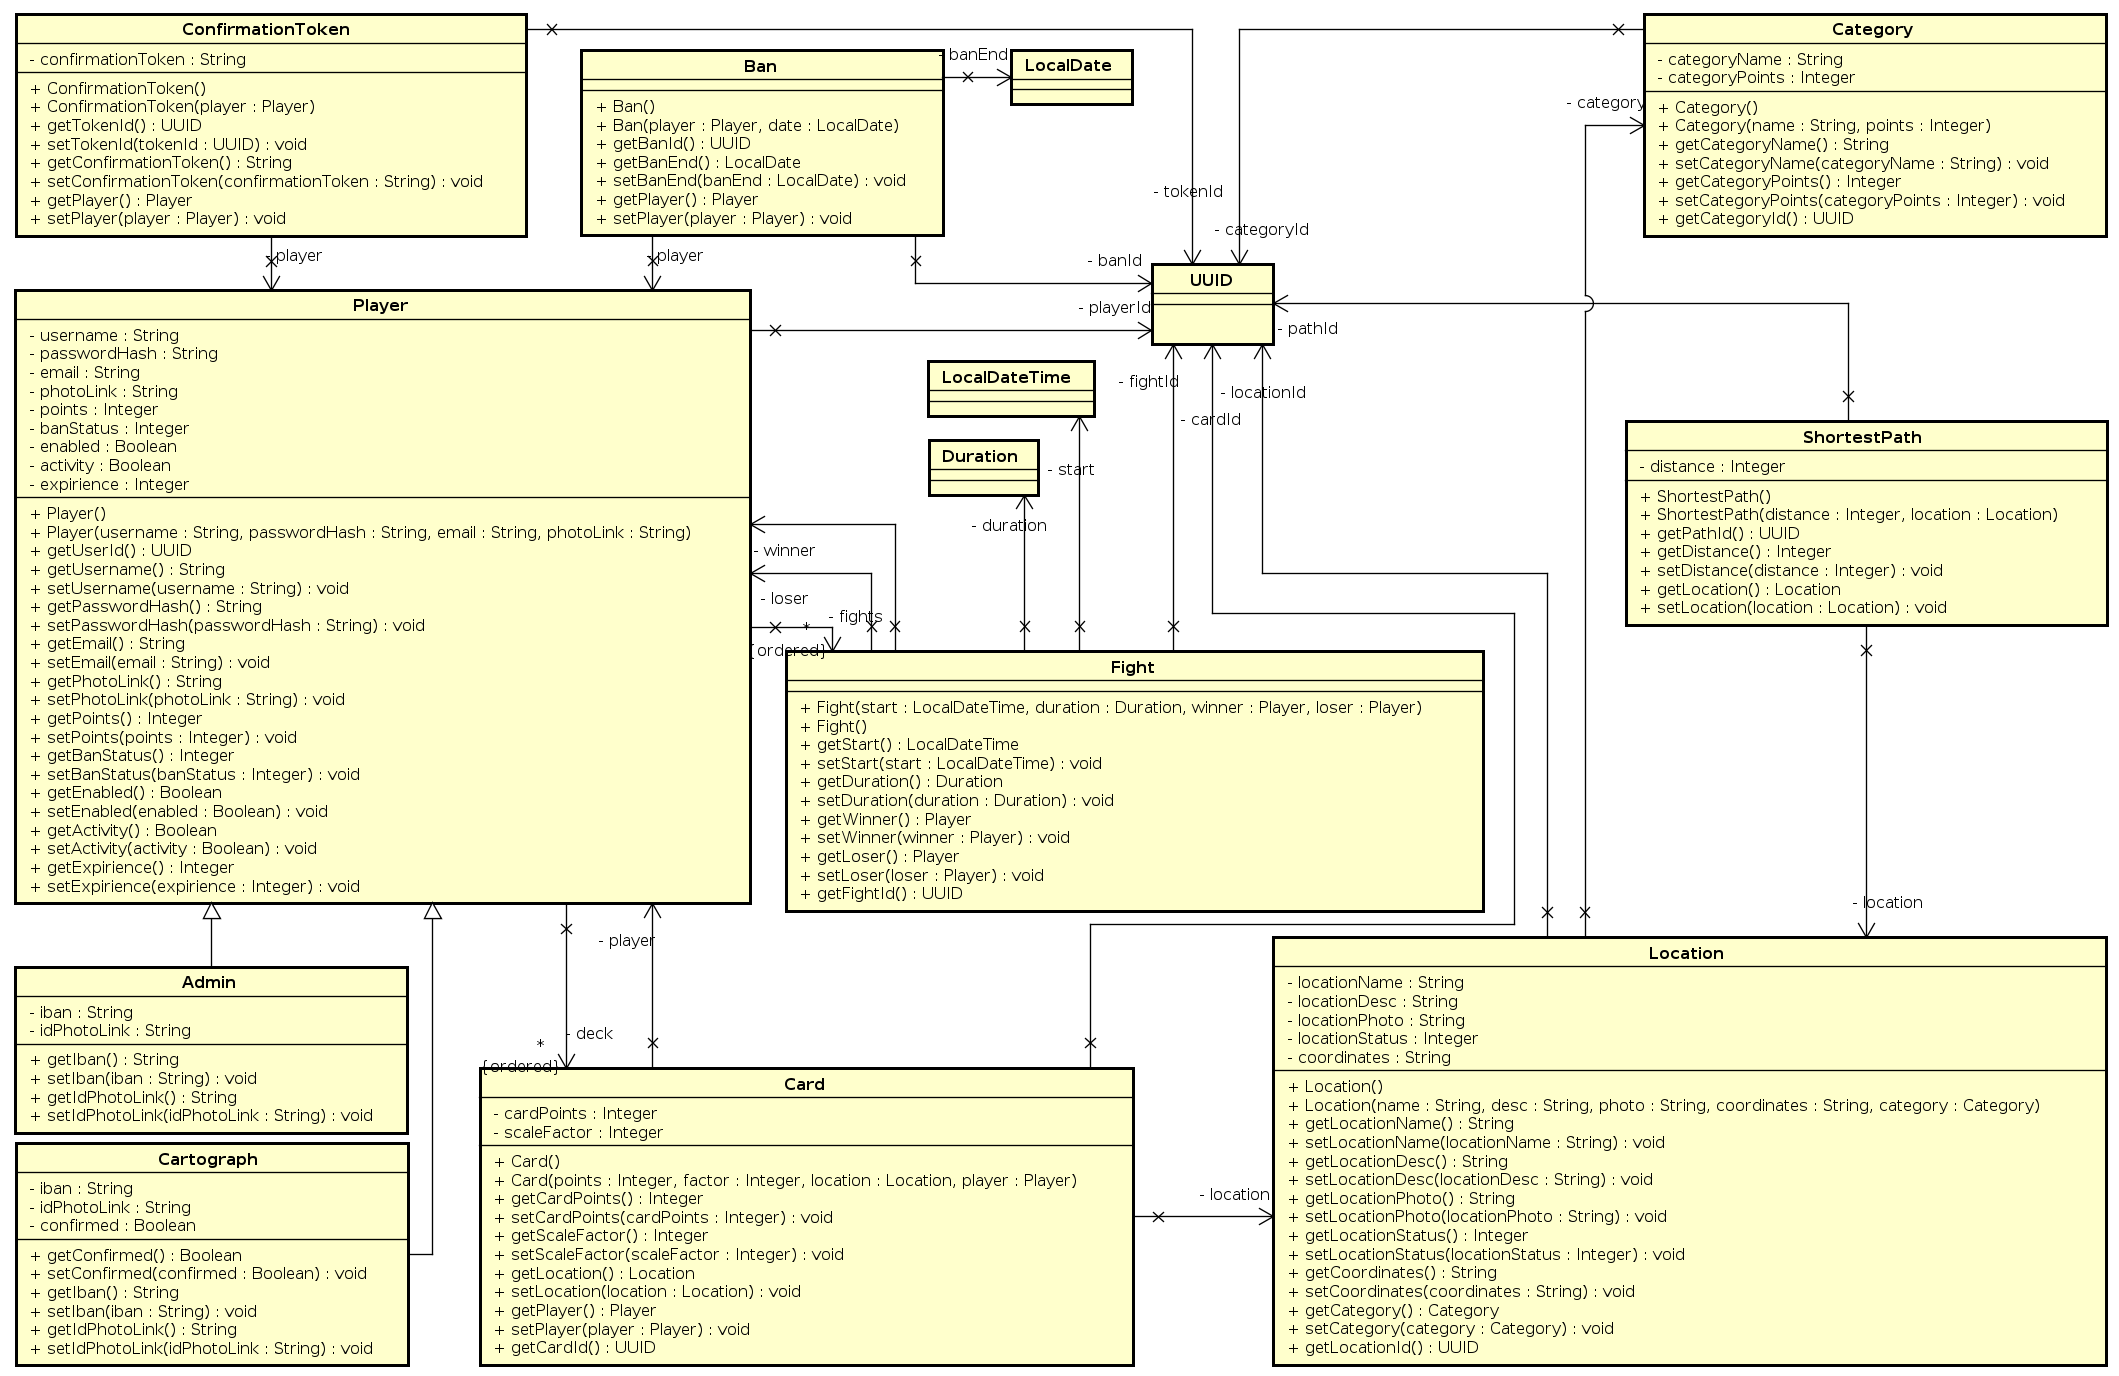
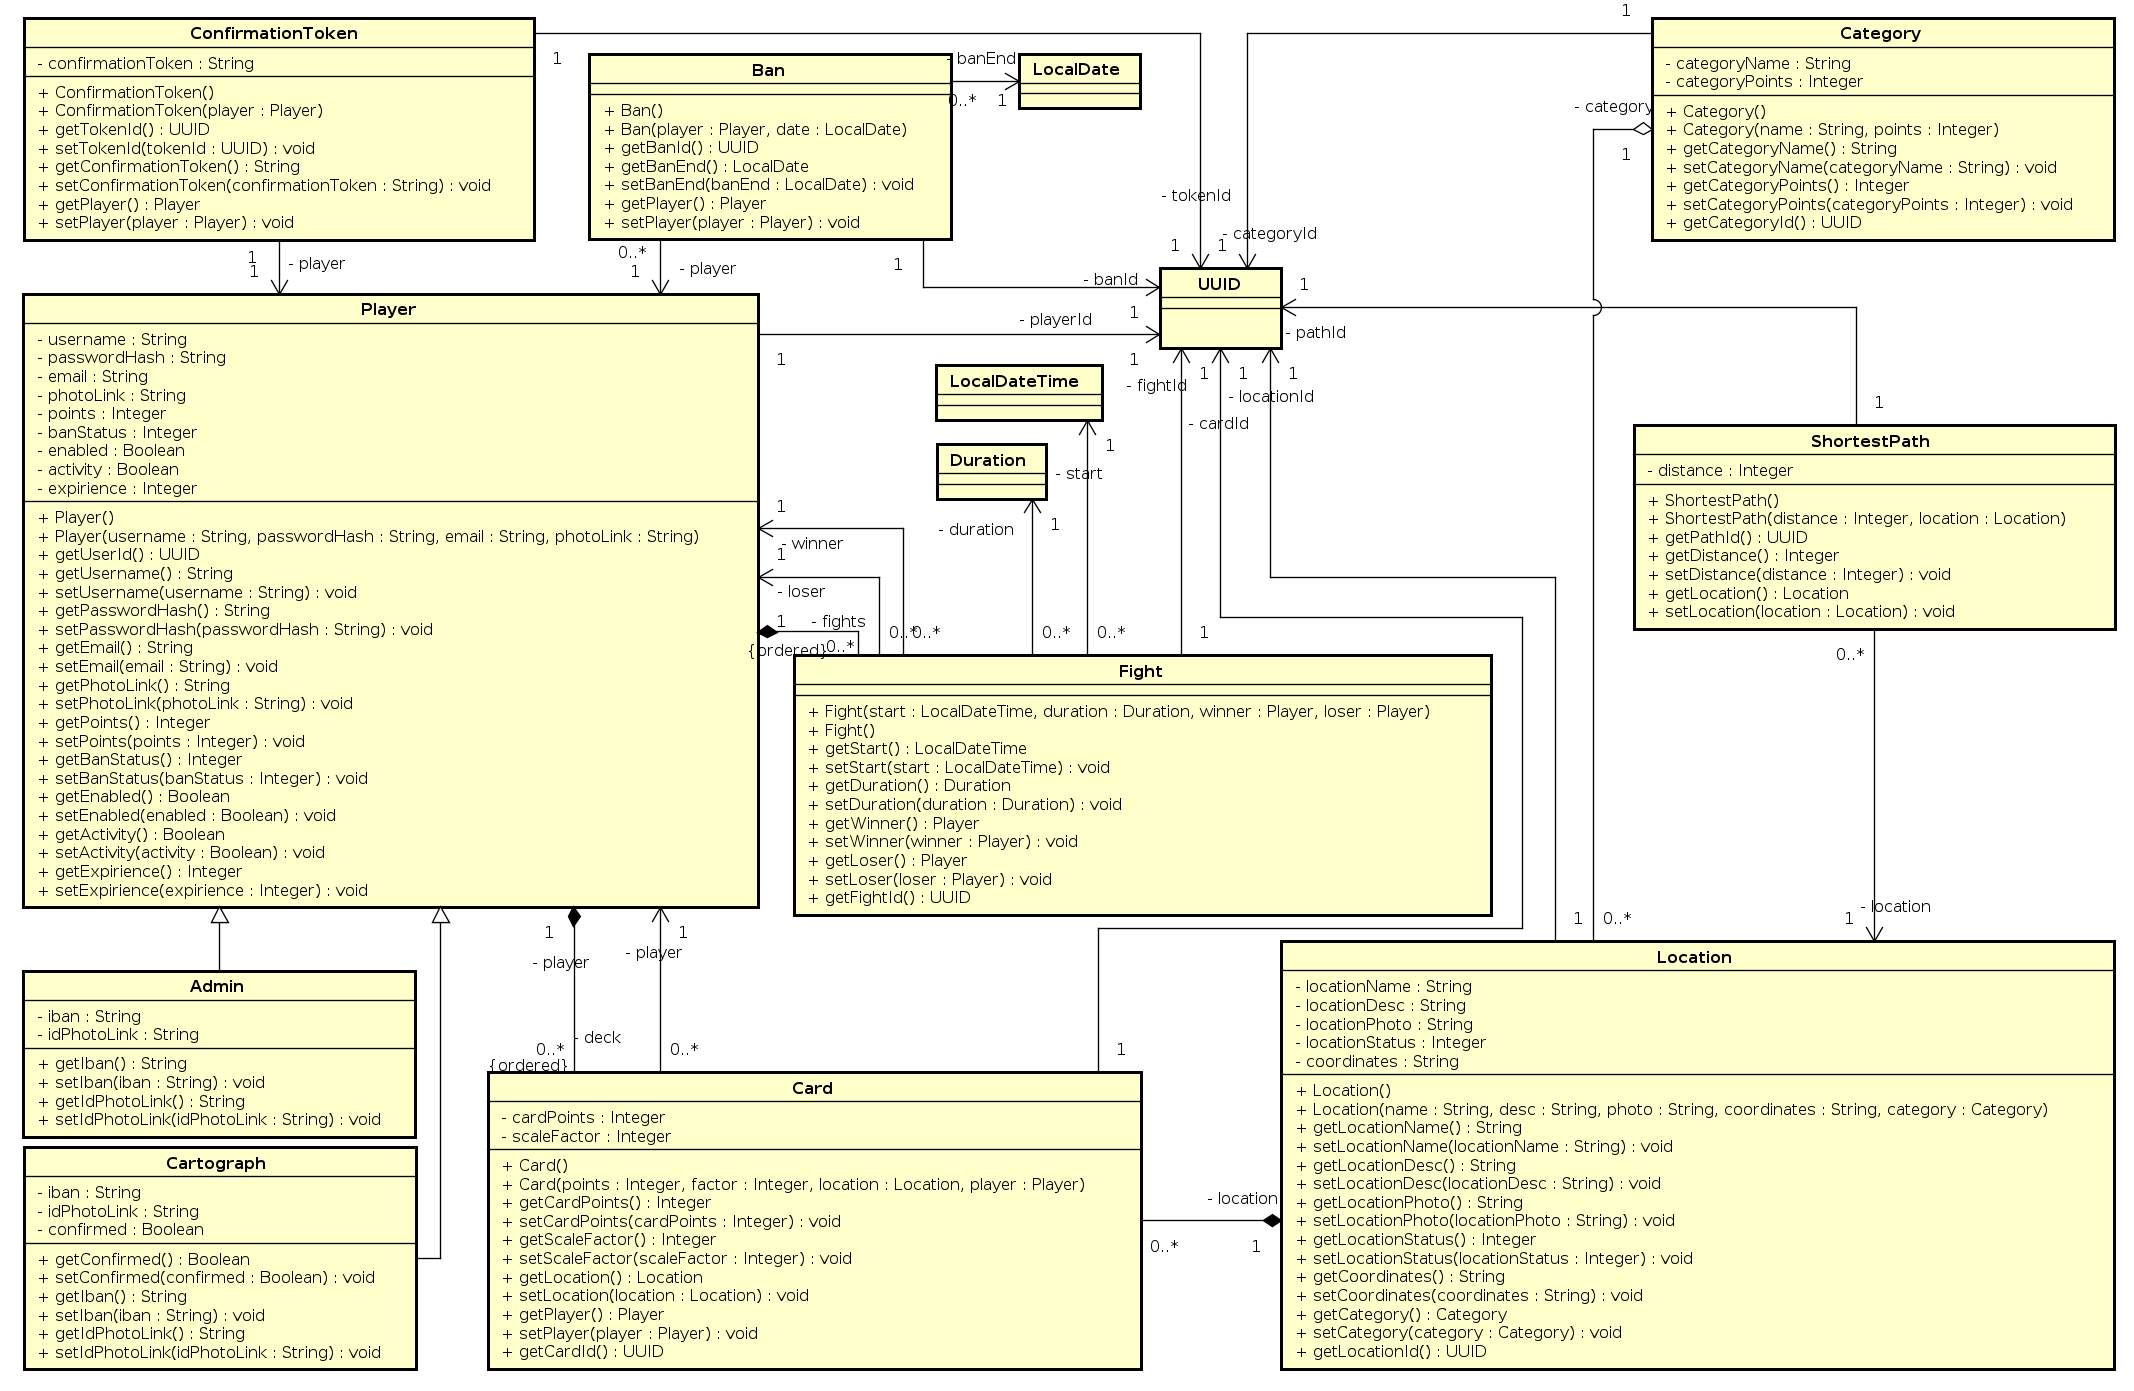
Promjene i dodatci u dijagramima razreda. Osvježena dokumentacija četvrtog poglavlja.

diff --git a/dokumentacija/Arhitektura.tex b/dokumentacija/Arhitektura.tex
@@ -9,9 +9,9 @@
 %		\item 	\textit{organizaciju aplikacije (npr. slojevi frontend i backend, MVC arhitektura) }		
 %	\end{itemize}
 
-		{Prilikom projektiranja samog sustava jedna od važnijih odluka bila je odabir programskog jezika i razvojnog okruženja u kojem ćemo razviti našu aplikaciju. Programski jezik kojeg smo odabrali je Java sa Spring Boot razvojim okvirom. Odabrano razvojno okruženje je Visual Studio Code.}	\\
+		{Prilikom projektiranja samog sustava jedna od važnijih odluka bila je odabir programskih jezika i razvojnih okruženja u kojima ćemo razviti našu aplikaciju. Programski jezici koje smo odabrali su Java sa Spring Boot razvojnim okvirom za \textit{backend} te React Javascript za \textit{frontend}. Odabrana razvojna okruženja su Eclipse za \textit{backend} te Visual Studio Code za \textit{frontend}.}	\\
 		{Također izbor odgovarajuće arhitekture programske potpore jedan je od najbitnijih koraka u oblikovanju sustava jer ona predstavlja poveznicu između zahtjeva u sustav i same implementacije sustava. Dobra arhitektura znači dobru fleksibilnost sustava, jednostavnu mogućnost nadogradnje i jeftino održavanje.}\\
-		{Sama arhitektura sustava je vrlo jednostavna, a sastoji se od dvije manje aplikacije: klijenta i poslužitelja. Osnovna prednost modela klijent-poslužitelj je u tome što nije potreban sustav za upravljanje bazom podataka na svakom klijentskom računalu, već se klijent s bazom podataka povezuje preko aplikacije. Time se postiže veća sigurnost i zaštita podataka. Poslužiteljska aplikacija ima pristup bazi podataka u kojoj će se pohranjivati podaci o lokacijama, kartama, borbama, igračima i kartografima. Poslužiteljska aplikacija neće dohvaćati slike iz baze podataka već preko servisa Cloudinary. Klijentska aplikacija osnovna je implementacija klijenta za REST web servise na poslužitelju, a ista dohvaća podatke te ih prezentira na korisniku razumljiv način. Obje aplikacije kreirane su pomoću Spring Boot razvojnog okvira, a inicijalizirane putem online servisa za inicijalizaciju SpringInitializr.}\\
+		{Sama arhitektura sustava je vrlo jednostavna, a sastoji se od dvije manje aplikacije: klijenta i poslužitelja. Osnovna prednost modela klijent-poslužitelj je u tome što nije potreban sustav za upravljanje bazom podataka na svakom klijentskom računalu, već se klijent s bazom podataka povezuje preko aplikacije. Time se postiže veća sigurnost i zaštita podataka. Poslužiteljska aplikacija ima pristup bazi podataka u kojoj će se pohranjivati podaci o lokacijama, kartama, borbama, igračima i kartografima. Poslužiteljska aplikacija neće dohvaćati slike iz baze podataka već preko servisa Cloudinary. Klijentska aplikacija osnovna je implementacija klijenta za REST web servise na poslužitelju, a ista dohvaća podatke te ih prezentira na korisniku razumljiv način. Obje aplikacije kreirane su pomoću Spring Boot razvojnog okvira, a inicijalizirane putem online servisa za inicijalizaciju SpringInitializer.}\\
 		{Za izradu aplikacije odabrali smo MVC arhitekturu jer omogućava dodatno strukturiranje aplikacije s obzirom na objektno orijentiranu paradigmu što znatno olakšava nezavisni razvoj, ispitivanje i održavanje aplikacije.}		
 
 				
@@ -257,19 +257,26 @@
 			
 		\section{Dijagram razreda}
 		
-			{Slike 4.2, 4.3 i 4.4 prikazuju razrede \textit{backend} dijela MVC arhitekture. Razredi na slici 4.2 prikazuju razrede Service i razrede Controller s anotacijom @RestController što je specifično za spring boot koji tom anotacijom kombinira anotacije @Controller i @ResponseBody te omogućuje da svaka metoda koja rukuje sa zahtjevima automatski serijalizira povratne vrijednosti objekata u \textit{HttpResponse}. Service razredi služe za modeliranje logike koja se događa nad modelima (npr. slanje mail-a) i služe za odvajanje takve logike od kontrolera čija je zadaća isključivo odgovarati na http zahtjeve (bilo GET, POST, PUT, PATCH ili DELETE).}
+			{Slike 4.2, 4.3, 4.4 i 4.5 prikazuju razrede \textit{backend} dijela MVC arhitekture. Razredi na slici 4.2 i 4.3 prikazuju razrede Service i razrede Controller s anotacijom @RestController što je specifično za spring boot koji tom anotacijom kombinira anotacije @Controller i @ResponseBody te omogućuje da svaka metoda koja rukuje sa zahtjevima automatski serijalizira povratne vrijednosti objekata u \textit{HttpResponse}. Service razredi služe za modeliranje logike koja se događa nad modelima (npr. slanje mail-a) i služe za odvajanje takve logike od kontrolera čija je zadaća isključivo odgovarati na http zahtjeve (bilo GET, POST, PUT, PATCH ili DELETE).}
 			
 			\begin{figure}[H]
 				\includegraphics[width=17cm, height=10cm]{dijagrami/servicecontroller_diagram}				
 				\centering
-				\caption{Dijagram razreda - dio Controllers i Service}
+				\caption{Dijagram razreda - dio trenutnih Controllers i Service razreda}
+				\label{}
+			\end{figure}
+		
+			\begin{figure}[H]
+				\includegraphics[width=\linewidth, height=14cm]{dijagrami/futureclass_diagram}				
+				\centering
+				\caption{Dijagram razreda - dio budućih Controller i Service razreda}
 				\label{}
 			\end{figure}
 			
 			\begin{figure}[H]
 				\includegraphics[width=\linewidth, height=14cm]{dijagrami/daoclass_diagram}				
 				\centering
-				\caption{Dijagram razreda - dio Data access object}
+				\caption{Dijagram razreda - dio Data access object razreda}
 				\label{}
 			\end{figure}
 		
@@ -278,7 +285,7 @@
 			\begin{figure}[H]
 				\includegraphics[width=\linewidth, height=14cm]{dijagrami/modelclass_diagram}				
 				\centering
-				\caption{Dijagram razreda - dio Models}
+				\caption{Dijagram razreda - dio Models razreda}
 				\label{}
 			\end{figure}
 			

diff --git a/dokumentacija/Dodatak.tex b/dokumentacija/Dodatak.tex
@@ -65,7 +65,7 @@
 
 				Arhitektura i dizajn sustava	 &  &  &  &  &  &  &  \\ \hline
 				Baza podataka				&  &  & 16 &  &  & 12 &   \\ \hline
-				Dijagram razreda 			&  &  & 10 &  &  & 1 &   \\ \hline
+				Dijagram razreda 			&  &  & 13 &  &  & 1 &   \\ \hline
 				Dijagram stanja				&  &  &  &  &  &  &  \\ \hline
 				Dijagram aktivnosti 		&  &  &  &  &  &  &  \\ \hline
 				Dijagram komponenti			&  &  &  &  &  &  &  \\ \hline
